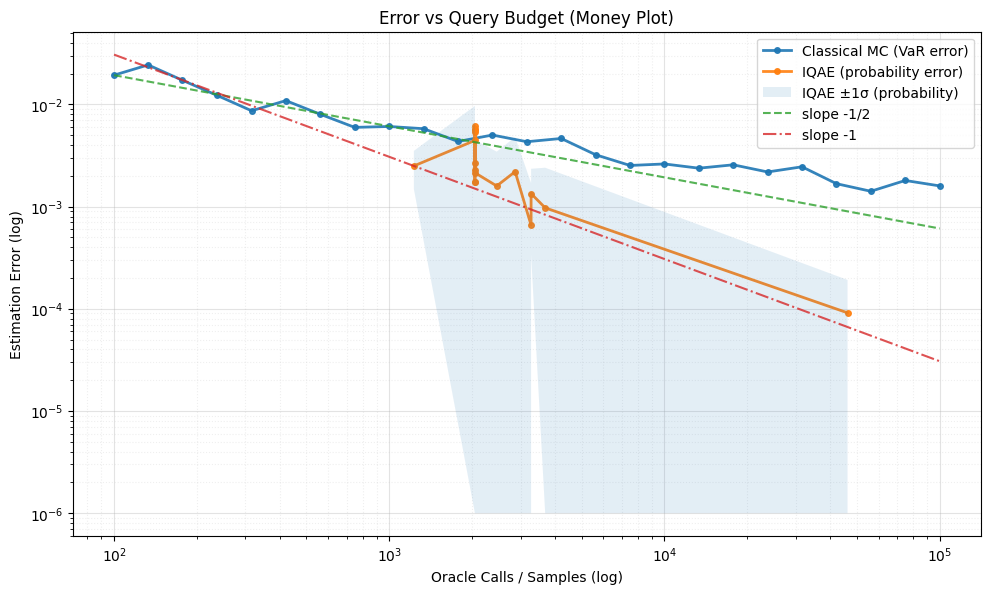
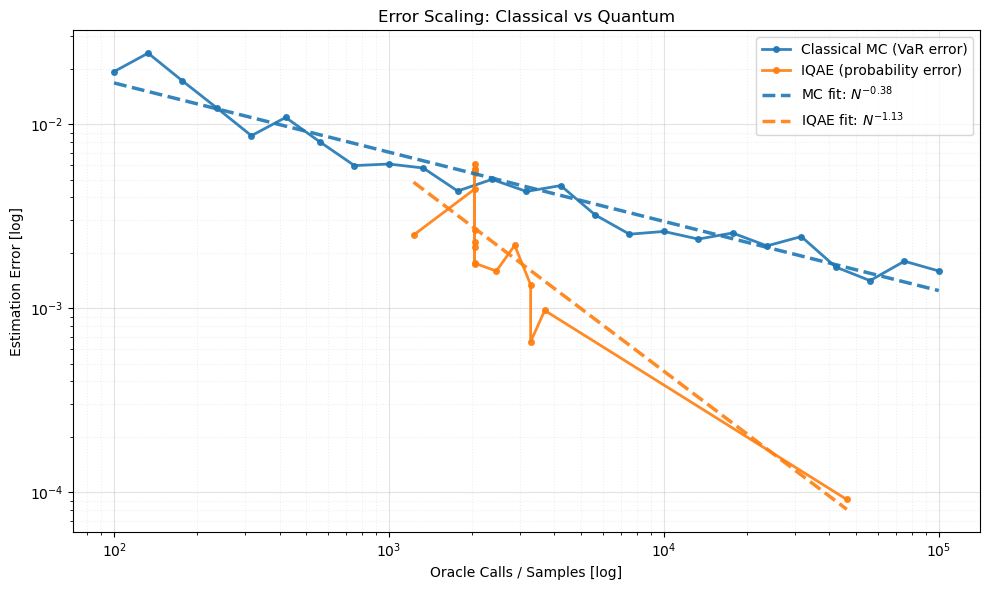
Add calculated line of best fit to the Epsilon vs N graph

diff --git a/step1/classical/quantum_classical_comparison_graphs.py b/step1/classical/quantum_classical_comparison_graphs.py
@@ -128,6 +128,36 @@ def load_classical_convergence(path: str) -> Dict[int, Dict[str, float]]:
     return stats
 
 
+
+def add_trend_line(ax, N, eps, color, label_prefix):
+    """
+    Fit and plot a power-law trend line: eps ~ C * N^{-alpha}
+    """
+    mask = (N > 0) & (eps > 0)
+    N = N[mask]
+    eps = eps[mask]
+
+    logN = np.log10(N)
+    logE = np.log10(eps)
+
+    slope, intercept = np.polyfit(logN, logE, 1)
+    alpha = -slope
+    C = 10**intercept
+
+    N_fit = np.logspace(np.log10(N.min()), np.log10(N.max()), 200)
+    eps_fit = C * N_fit**(-alpha)
+
+    ax.plot(
+        N_fit, eps_fit,
+        linestyle="--",
+        linewidth=2.5,
+        color=color,
+        alpha=0.9,
+        label=f"{label_prefix} fit: $N^{{-{alpha:.2f}}}$",
+        zorder=2
+    )
+
+
 def error_vs_budget_plot(
     mc_n: np.ndarray,
     mc_err: np.ndarray,
@@ -157,25 +187,40 @@ def error_vs_budget_plot(
         label="IQAE (probability error)",
         marker="o", markersize=4, alpha=0.9
     )
-    ax.fill_between(
-        iqae_budget, iqae_err_low, iqae_err_high,
-        alpha=0.12, zorder=2, label="IQAE ±1σ (probability)"
-    )
+    # ax.fill_between(
+    #     iqae_budget, iqae_err_low, iqae_err_high,
+    #     alpha=0.12, zorder=2, label="IQAE ±1σ (probability)"
+    # )
 
     # Reference slope lines
-    x_line = np.array([min(mc_n.min(), iqae_budget.min()), max(mc_n.max(), iqae_budget.max())])
-    c_half = mc_err[0] * math.sqrt(mc_n[0])
-    c_one = iqae_err[0] * iqae_budget[0]
-    ax.plot(x_line, c_half / np.sqrt(x_line), "--", alpha=0.8, label="slope -1/2")
-    ax.plot(x_line, c_one / x_line, "-.", alpha=0.8, label="slope -1")
+    # x_line = np.array([min(mc_n.min(), iqae_budget.min()), max(mc_n.max(), iqae_budget.max())])
+    # c_half = mc_err[0] * math.sqrt(mc_n[0])
+    # c_one = iqae_err[0] * iqae_budget[0]
+    # ax.plot(x_line, c_half / np.sqrt(x_line), "--", alpha=0.8, label="slope -1/2")
+    # ax.plot(x_line, c_one / x_line, "-.", alpha=0.8, label="slope -1")
+
+    add_trend_line(
+        ax,
+        mc_n,
+        mc_err,
+        color=ax.lines[0].get_color(),
+        label_prefix="MC"
+    )
+    add_trend_line(
+        ax,
+        iqae_budget,
+        iqae_err,
+        color=ax.lines[1].get_color(),
+        label_prefix="IQAE"
+    )
 
     ax.set_xscale("log")
     ax.set_yscale("log")
     style_axes(
         ax,
-        "Error vs Query Budget (Money Plot)",
-        "Oracle Calls / Samples (log)",
-        "Estimation Error (log)",
+        "Error Scaling: Classical vs Quantum",
+        "Oracle Calls / Samples [log]",
+        "Estimation Error [log]",
     )
     ax.legend(loc="best")
 
